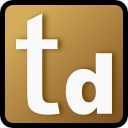
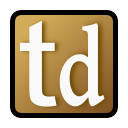
アイコンをすこし修正。 キャッシュの削除処理の動作を修正。 ポストの移動時にボタンが押せなくなる場合があったのを修正。
git-svn-id: http://nasserver:888/repos/main/platform/Titanium/Tumbdash@2330 fd21481f-4f5f-b64a-a7cc-914020ce4b36

diff --git a/Resources/tumblrDashboard.js b/Resources/tumblrDashboard.js
@@ -150,6 +150,10 @@ self.log.debug('login suceess');
 		}
 
 		requestDashboard.call(self);
+
+		fetchCommand.call(self, {
+					type: self.CMD_SWEEP_POST
+				});
 	}
 
 	function isEmptyCachedPost(id) {
@@ -466,7 +470,7 @@ self.log.debug('reblog suceess "'+e.result.text+'"');
 					{ type: self.CMD_REQ_FUTURE_POST },
 					{ type: self.CMD_PREV_POST },
 				]); }, 10);
-			return;
+			return false;
 		}
 		// 移動
 		var cacheIndex = self.cacheIndex;
@@ -492,7 +496,7 @@ self.log.debug('reblog suceess "'+e.result.text+'"');
 							{ type: self.CMD_PREV_POST, index: result.result },
 						]); }, 10);
 				}
-				return;
+				return false;
 			}
 			index = result.result;
 		}
@@ -514,7 +518,7 @@ self.log.debug('reblog suceess "'+e.result.text+'"');
 		var self  = this;
 		var index = data['index'] ? data['index'] : self.cacheIndex;
 		if (self.cacheList.length <= self.cacheIndex + 1) {
-			return;
+			return false;
 		}
 		// 移動
 		var cacheIndex = self.cacheIndex;
@@ -533,7 +537,10 @@ self.log.debug('reblog suceess "'+e.result.text+'"');
 							{ type: self.CMD_NEXT_POST, index: result.result },
 						]); }, 10);
 				}
-				return;
+				else {
+					setTimeout(function(){ self.fireEvent('loadComplite', self.post()); }, 1);
+				}
+				return false;
 			}
 			index = result.result;
 		}
@@ -572,7 +579,7 @@ self.log.debug('reblog suceess "'+e.result.text+'"');
 				}
 self.log.debug('cache sweep range '+top+'/'+last+' ('+self.cacheIndex+','+self.cacheList.length+')');
 				for (var i = self.cacheList.length - 1; 0 <= i; i--) {
-					if (top <= i && i < last) {
+					if (i < top || last <= i) {
 						self.sweepPosts.push(self.cacheList[i]);
 					}
 				}
@@ -588,7 +595,7 @@ self.log.debug('cache sweep range '+top+'/'+last+' ('+self.cacheIndex+','+self.c
 				}
 			}
 
-			if (self.sweepPosts.length) {
+			if (!self.sweepPosts.length) {
 				return;
 			}
 self.log.debug('cache sweep target '+self.sweepPosts.length);
@@ -597,20 +604,27 @@ self.log.debug('cache sweep target '+self.sweepPosts.length);
 		var timeout = false;
 		setTimeout(function() { timeout = true; }, 250);
 
-		var curId = self.cacheList[self.cacheIndex]['id'];
+		var curId = self.cacheList[self.cacheIndex];
 
 self.log.debug('cache sweep start '+self.cacheList.length);
 
 		while (self.sweepPosts.length && !timeout) {
 			var id = self.sweepPosts.shift();
 			delete self.cacheData[id];
+			var fileName = String.format("%s/%s.json", self.cacheDir, ''+id);
+			var file = Ti.Filesystem.getFile(fileName);
+self.log.debug('cache sweep delete #'+id+' "'+fileName+(file.exists()?'" (exist)':'"'));
+			if (file.exists()) {
+				file.deleteFile();
+			}
 			for (var i = 0; i < self.cacheList.length; i++) {
-				if (id == self.cacheList[i]['id']) {
+				if (id == self.cacheList[i]) {
 					if (i <= self.cacheIndex) {
 						self.cacheIndex--;
 					}
-					delete self.cacheList[i];
+					self.cacheList.splice(i,1);
 					i--;
+					break;
 				}
 			}
 		}
@@ -619,7 +633,7 @@ self.log.debug('cache sweep stop '+self.cacheList.length);
 
 		self.cacheIndex = 0;
 		for (var i = 0, num = self.cacheList.length; i < num; i++) {
-			if (currentId == self.cacheList[i]) {
+			if (curId == self.cacheList[i]) {
 				self.cacheIndex = i;
 				break;
 			}

diff --git a/Resources/ui/common/MainWindow.js b/Resources/ui/common/MainWindow.js
@@ -336,10 +336,10 @@ function MainWindow(dashboard, logger, intentCall) {
 								Ti.UI.Android.openPreferences();
 							});
 
-						var menuReset = menu.add({ title : 'リセット' });
-						menuReset.addEventListener('click', function(e) {
-								dashboard.clearCache();
-							});
+//						var menuReset = menu.add({ title : 'リセット' });
+//						menuReset.addEventListener('click', function(e) {
+//								dashboard.clearCache();
+//							});
 
 						var menuAbout = menu.add({ title : '情報' });
 						menuAbout.setIcon(Ti.Android.R.drawable.ic_menu_info_details);

diff --git a/Resources/tumblr.js b/Resources/tumblr.js
@@ -83,9 +83,9 @@ exports.Tumblr = (function(global){
 		});
 
 		webView.addEventListener('beforeload', function(e){
-	//		if (!isAndroid) {
+			if (!isAndroid) {
 				webViewWindow.add(loadingOverlay);
-	//		}
+			}
 	//		actInd.hide();
 	//		actInd.show();
 		});
